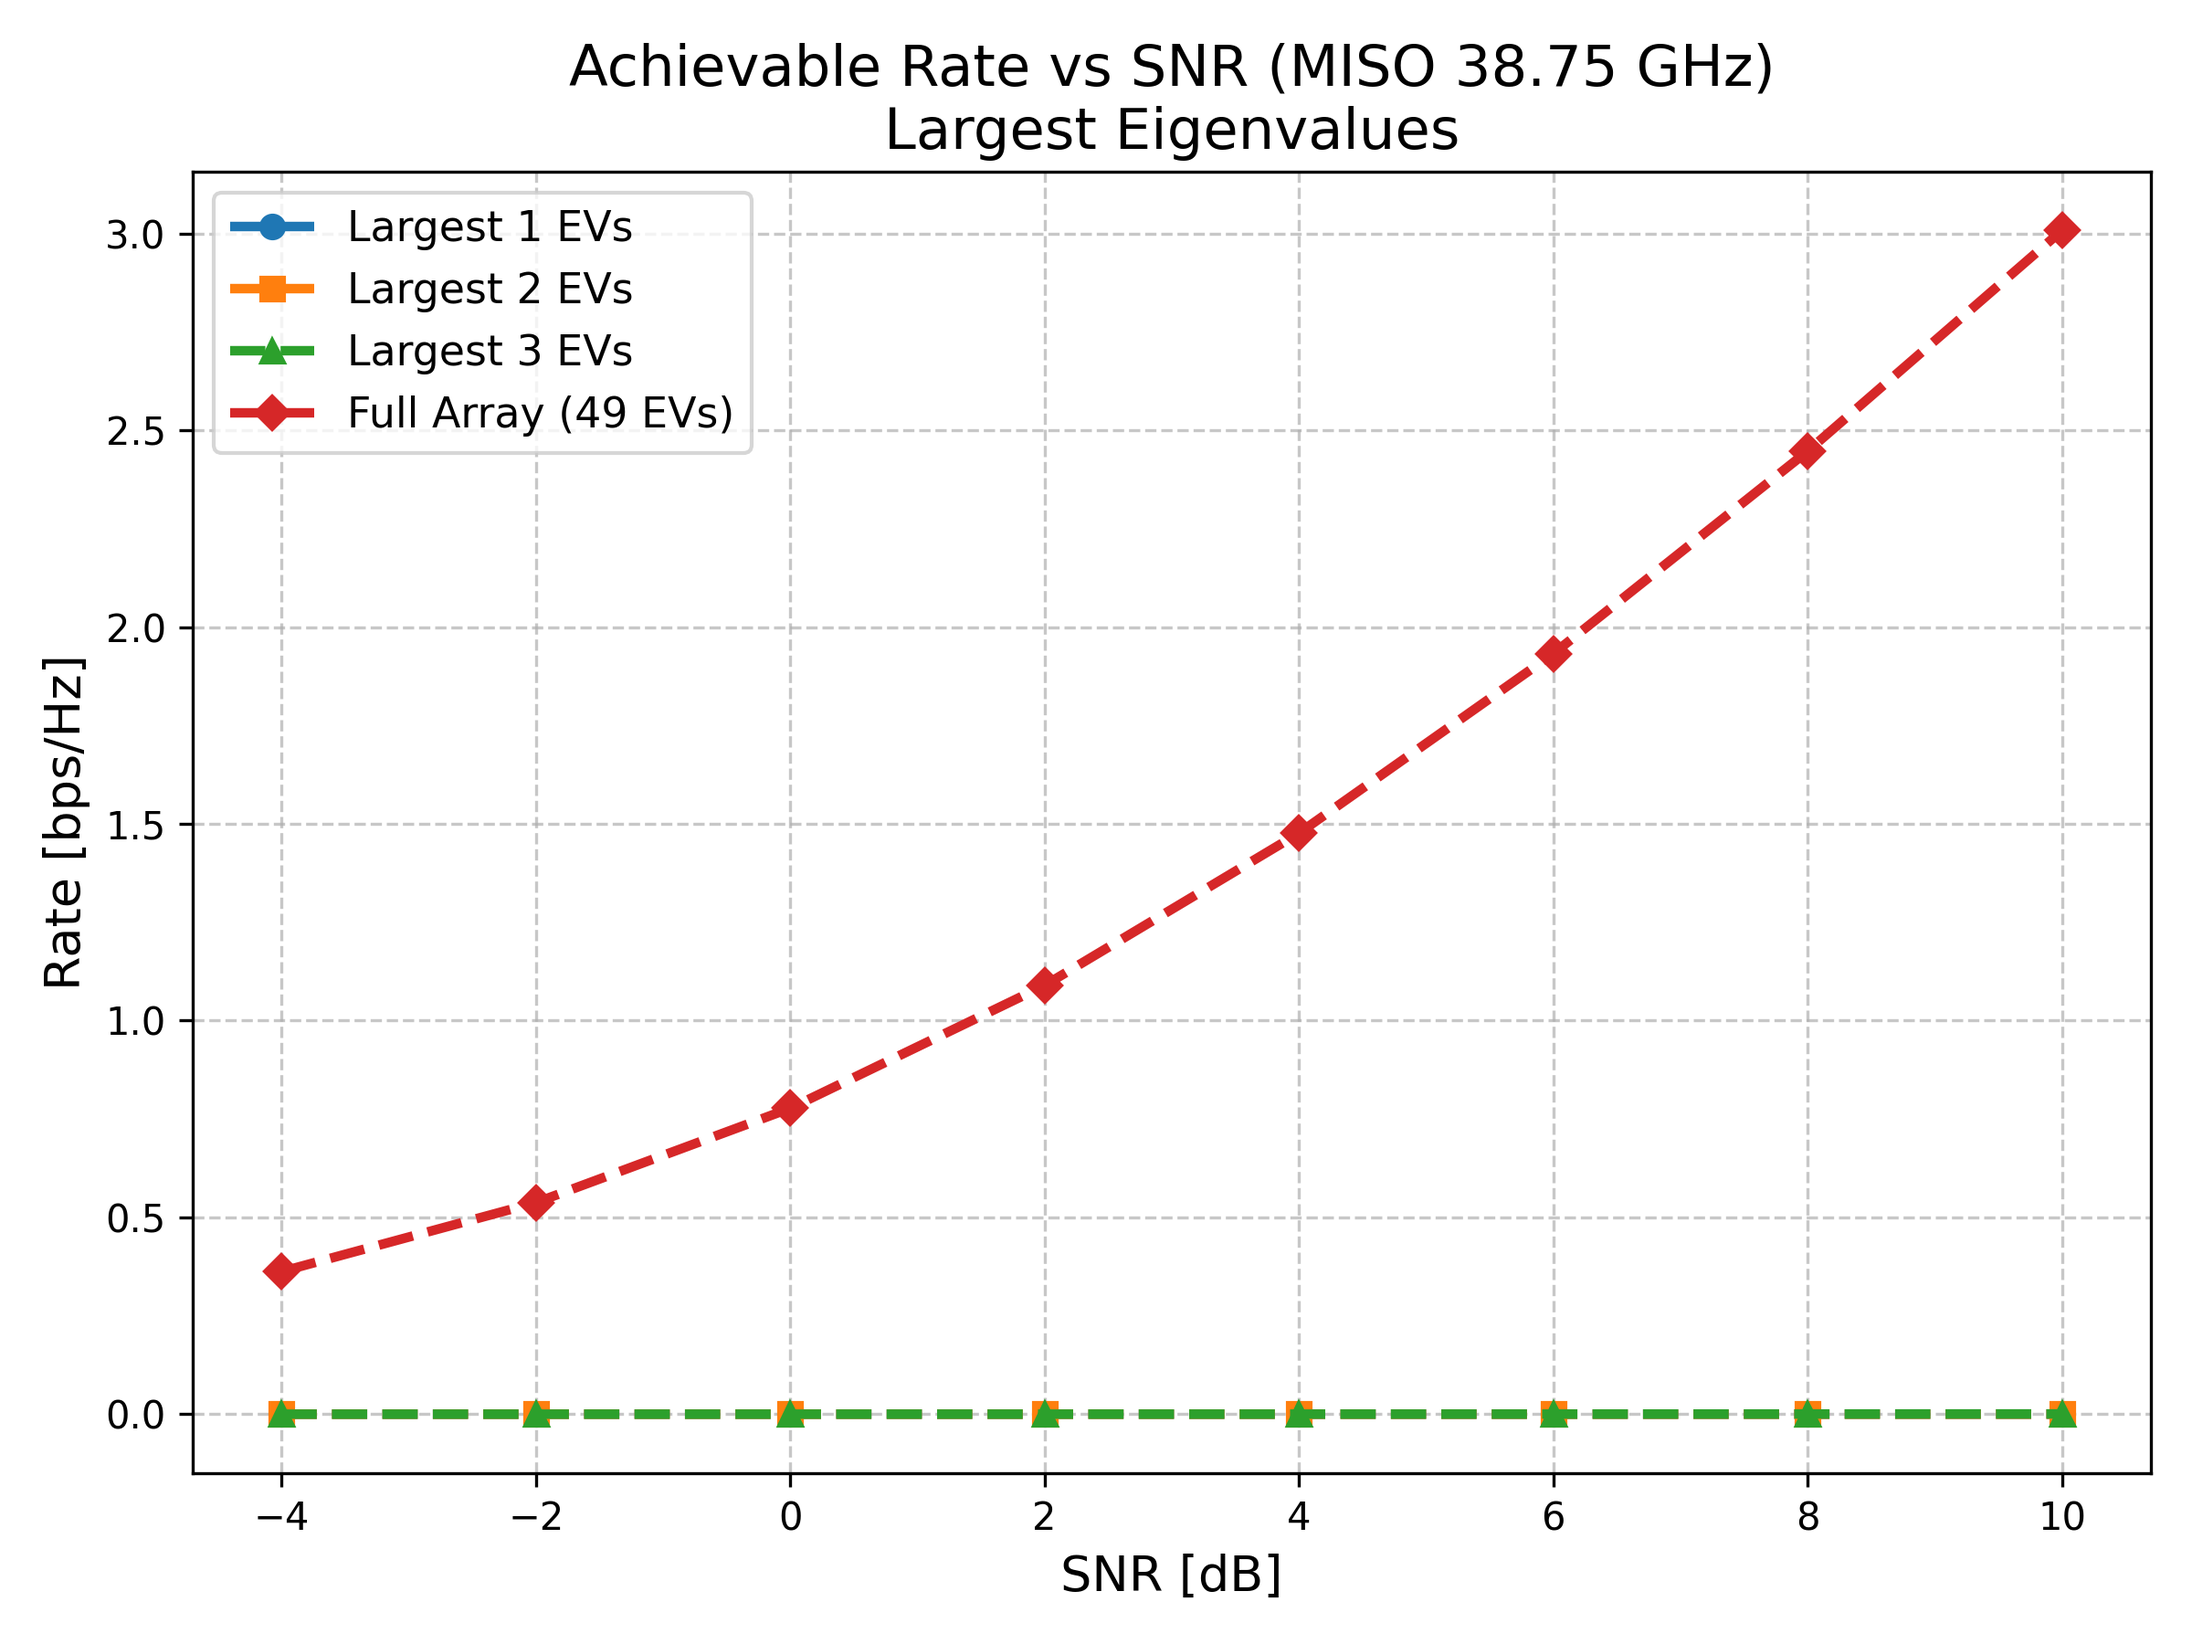
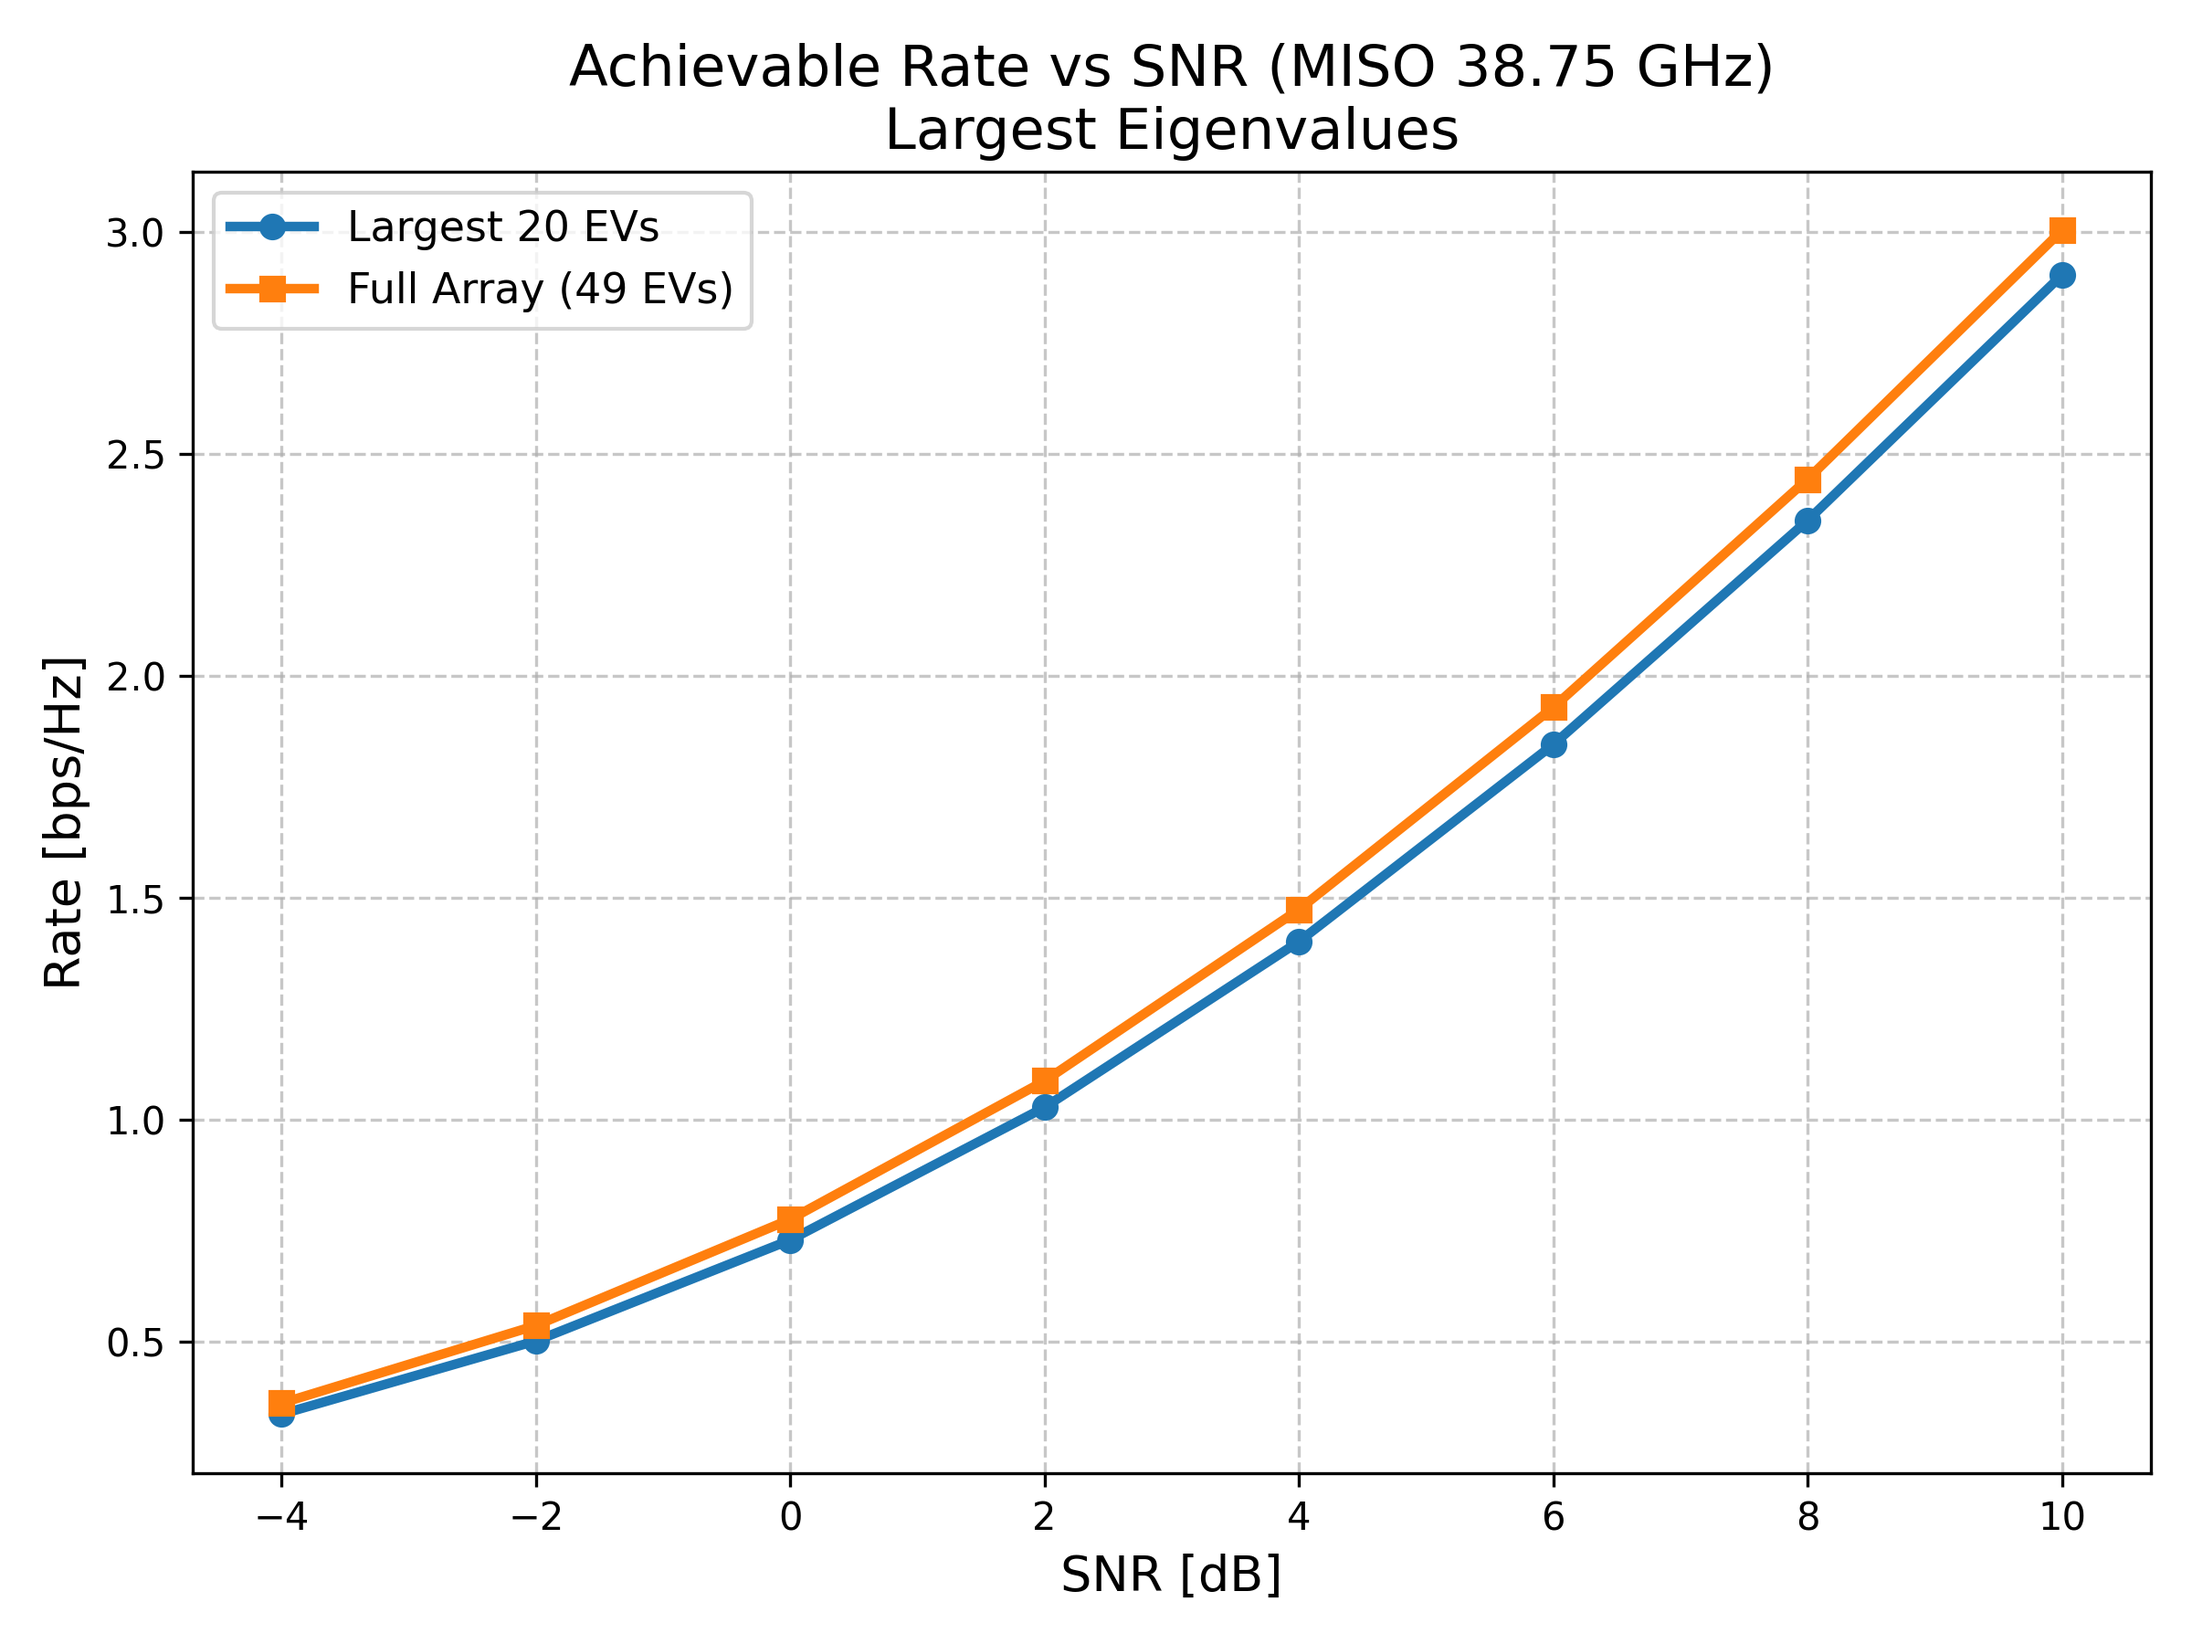
feat(UPA): check the eigenvalues, found the trend that the larger EV tends to have lower rate, and most of the EV < 1, no significant good small EV modes for determining the effective rank

diff --git a/small_scale_channel_tracking/data/ant_config_finetuning/mode_selection.py b/small_scale_channel_tracking/data/ant_config_finetuning/mode_selection.py
@@ -12,7 +12,7 @@ from utils.channel_utils import calculate_coupling_matrix, load_eigenvectors, ba
 # ==========================================
 SCRIPT_DIR = os.path.dirname(os.path.abspath(__file__))
 
-MODE = 2  # Set to 39 or 2
+MODE = 39  # Set to 39 or 2
 
 if MODE == 39:
     CENTER_FREQ_STR = "38.75"
@@ -39,7 +39,7 @@ Z_FILE_TX = os.path.join(SCRIPT_DIR, "Z_results", f"7x7_UPA_{CENTER_FREQ_STR}GHz
 EIGEN_FILE_TX = os.path.join(SCRIPT_DIR, "eigen_result", f"7x7_UPA_{CENTER_FREQ_STR}GHz_eigen.mat")
 
 # Channel filename for 1x1Rx
-CHANNEL_FILE = os.path.join(CHAN_DIR, f"channel_data_{CHANNEL_FREQ_GHZ}GHz_7x7Tx_1x1Rx_3000samples.mat")
+CHANNEL_FILE = os.path.join(CHAN_DIR, f"channel_data_SC_{CHANNEL_FREQ_GHZ}GHz_7x7Tx_1x1Rx_3000samples.mat")
 
 # Output directory for rate-sorted eigen components
 SORTED_EIGEN_DIR = os.path.join(SCRIPT_DIR, "eigen_result_rate_sorted")
@@ -140,7 +140,13 @@ def main():
             print(f"   SNR {snr:>2} dB: {snr_orders[snr][:10].tolist()}")
     else:
         print(f"   Universal Top 10 Order: {base_order[:10].tolist()}")
-
+        # Use .flatten() to turn [[1.2], [3.4]] into [1.2, 3.4]
+    raw_values = sio.loadmat(EIGEN_FILE_TX)['lambda_sorted'][base_order].flatten()
+    # Now 'val' will be a single float, and this will work:
+    formatted_list = [f"{val:.4f}" for val in raw_values]
+    # print(f"Corresponding eigenvalues (Top 10): {formatted_list}")
+    for i in range(N_T):
+        print(f"{i+1:>2}: Index {base_order[i]+1:>2}, Eigenvalue {raw_values[i]:.4f}")
     # Question 2: Is the required number of modes identical?
     base_req = snr_req_modes[SNR_dB_Range[0]]
     reqs_identical = all(val == base_req for val in snr_req_modes.values())
@@ -151,27 +157,27 @@ def main():
         print(f"   SNR {snr:>2} dB: Requires {snr_req_modes[snr]:>2} modes to hit 90%")
     print("="*50 + "\n")
 
-    # ==========================================
-    # 4. Save the Rate-Sorted Eigen-components
-    # ==========================================
+    # # ==========================================
+    # # 4. Save the Rate-Sorted Eigen-components
+    # # ==========================================
     
-    # We use the order from the highest SNR (10 dB) as our universal sorting standard
-    universal_rate_order = snr_orders[10] 
+    # # We use the order from the highest SNR (10 dB) as our universal sorting standard
+    # universal_rate_order = snr_orders[10] 
 
-    # Load the original `.mat` file so we preserve metadata (freqs, grid_size, etc.)
-    mat_data = sio.loadmat(EIGEN_FILE_TX)
+    # # Load the original `.mat` file so we preserve metadata (freqs, grid_size, etc.)
+    # mat_data = sio.loadmat(EIGEN_FILE_TX)
 
-    # 1. Reorder the Eigenvectors (columns)
-    mat_data['U_T_sorted'] = mat_data['U_T_sorted'][:, universal_rate_order]
+    # # 1. Reorder the Eigenvectors (columns)
+    # mat_data['U_T_sorted'] = mat_data['U_T_sorted'][:, universal_rate_order]
     
-    # 2. Flatten to a strict 1D array, sort, then reshape back to a (49, 1) column vector
-    lambda_flat = mat_data['lambda_sorted'].flatten()
-    mat_data['lambda_sorted'] = lambda_flat[universal_rate_order].reshape(-1, 1)
+    # # 2. Flatten to a strict 1D array, sort, then reshape back to a (49, 1) column vector
+    # lambda_flat = mat_data['lambda_sorted'].flatten()
+    # mat_data['lambda_sorted'] = lambda_flat[universal_rate_order].reshape(-1, 1)
 
-    # Save to the new directory using original filename convention
-    out_filename = f"7x7_UPA_{CENTER_FREQ_STR}GHz_eigen.mat"
-    out_path = os.path.join(SORTED_EIGEN_DIR, out_filename)
-    sio.savemat(out_path, mat_data)
+    # # Save to the new directory using original filename convention
+    # out_filename = f"7x7_UPA_{CENTER_FREQ_STR}GHz_eigen.mat"
+    # out_path = os.path.join(SORTED_EIGEN_DIR, out_filename)
+    # sio.savemat(out_path, mat_data)
     
     print(f"Successfully saved re-sorted components")
 

diff --git a/small_scale_channel_tracking/data/ant_config_finetuning/plot_miso_smallest_vs_largest.py b/small_scale_channel_tracking/data/ant_config_finetuning/plot_miso_smallest_vs_largest.py
@@ -19,7 +19,7 @@ Z0 = 50
 SNR_dB_Range = np.arange(-4, 12, 2)
 
 # Dynamically set the list to use 1, 2, 3, and the full array size (N_T)
-RT_LIST = [1, 2, 3, N_T]
+RT_LIST = [20, N_T]
 
 # --- File Paths ---
 SCRIPT_DIR = os.path.dirname(os.path.abspath(__file__))
@@ -28,7 +28,7 @@ CHAN_DIR = os.path.join(SCRIPT_DIR, "..", "channel")
 Z_FILE_TX = os.path.join(SCRIPT_DIR, "Z_results", f"{TX_DIM[0]}x{TX_DIM[1]}_UPA_{CENTER_FREQ_STR}GHz_Z.mat")
 EIGEN_FILE_TX = os.path.join(SCRIPT_DIR, "eigen_result", f"{TX_DIM[0]}x{TX_DIM[1]}_UPA_{CENTER_FREQ_STR}GHz_eigen.mat")
 
-CHANNEL_FILE = os.path.join(CHAN_DIR, f"channel_data_SC_{CHANNEL_FREQ_GHZ}GHz_{TX_DIM[0]}x{TX_DIM[1]}Tx_1x1Rx_30000samples.mat")
+CHANNEL_FILE = os.path.join(CHAN_DIR, f"channel_data_SC_{CHANNEL_FREQ_GHZ}GHz_{TX_DIM[0]}x{TX_DIM[1]}Tx_1x1Rx_3000samples.mat")
 # if not os.path.exists(CHANNEL_FILE):
 #     CHANNEL_FILE = os.path.join(CHAN_DIR, f"channel_data_SC_{CHANNEL_FREQ_GHZ}GHz_{TX_DIM[0]}x{TX_DIM[1]}Tx_1x1Rx_3000samples.mat")
 
@@ -155,7 +155,7 @@ def main():
     for idx, rt in enumerate(RT_LIST):
         label_str = f'Largest {rt} EVs' if rt != N_T else f'Full Array ({N_T} EVs)'
         plt.plot(SNR_dB_Range, rates_largest[rt], 
-                 color=colors[idx], marker=markers[idx], linestyle='--',
+                 color=colors[idx], marker=markers[idx], linestyle='-',
                  label=label_str, linewidth=2.5)
                  
     plt.title(f'Achievable Rate vs SNR (MISO {CENTER_FREQ_STR} GHz)\nLargest Eigenvalues', fontsize=15)

diff --git a/small_scale_channel_tracking/data/channel/channel_gen.m b/small_scale_channel_tracking/data/channel/channel_gen.m
@@ -8,7 +8,7 @@ rng(0);
 f_c = 38.75;  % 2.0625, 28, or 38.75 GHz
 nTxxy = [7 7];
 nRxxy = [1 1];
-num_samples = 1000000;
+num_samples = 3000;
 
 % General setting for channel generation
 loc_BSs = [0; 0; 20000];
